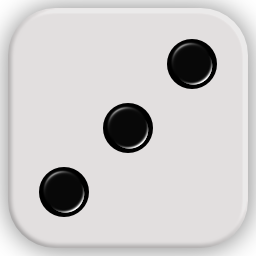
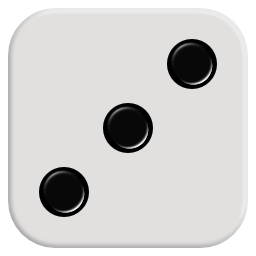
Setting dice

Changed region(s): [[0.0, 0.0, 1.0, 1.0]]

diff --git a/script.js b/script.js
@@ -1,4 +1,5 @@
 import Player from "./scripts/player.js";
+import Dice from "./scripts/dice.js";
 
 const newGameButton = document.getElementById("ngButton");
 const rollAgain = document.getElementById("roll");
@@ -9,10 +10,11 @@ const player1ind = document.getElementById("indicator-1");
 const player2ind = document.getElementById("indicator-2");
 const player1score = document.getElementById("score-1");
 const player2score = document.getElementById("score-2");
-const dice = document.getElementById("dice");
+const diceImage = document.getElementById("dice");
 
 let player1 = new Player(player1Name, player1ind, player1score);
 let player2 = new Player(player2Name, player2ind, player2score);
+let dice = new Dice();
 let currentPlayer;
 
 function startNewGame() {
@@ -22,6 +24,12 @@ function startNewGame() {
   player2.setScore(0);
   currentPlayer = player1;
   currentPlayer.setActive(true);
+  setDiceImage(1);
+}
+
+function setDiceImage(value) {
+  dice.setValue(value);
+  diceImage.style.setProperty("--diceImage", `url(${dice.getUrl()})`);
 }
 
 startNewGame();

diff --git a/scripts/dice.js b/scripts/dice.js
@@ -1,0 +1,17 @@
+export default class Dice {
+  constructor(diceValue = 1) {
+    this.diceValue = diceValue;
+  }
+
+  setValue(value) {
+    this.diceValue = value;
+  }
+
+  getValue() {
+    return this.diceValue;
+  }
+
+  getUrl() {
+    return `images/Face${this.diceValue}.png`;
+  }
+}

diff --git a/style.css b/style.css
@@ -37,7 +37,9 @@ body {
 }
 
 .dice {
-  background-color: hsl(0, 0%, 50%);
+  /* background-color: hsl(0, 0%, 50%); */
+  background-image: var(--diceImage);
+  background-size: cover;
   width: 100px;
   height: 100px;
 }
